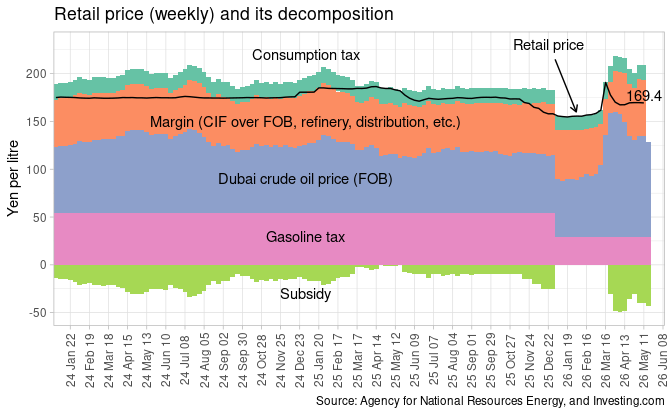
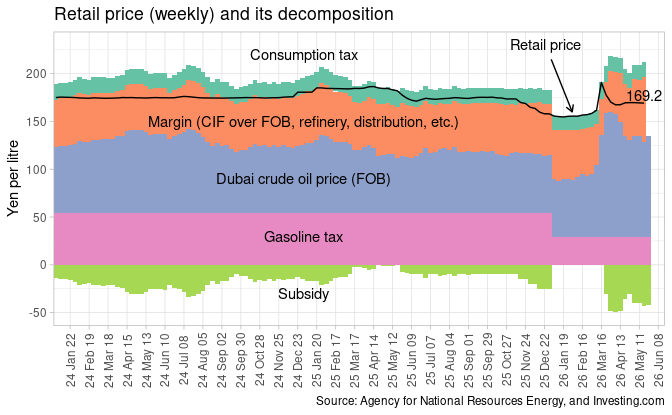
update on May 20, 2026

diff --git a/README.md b/README.md
@@ -25,7 +25,7 @@ library(tidyquant)
 theme_set(theme_light())
 ```
 
-Updated: 2026-05-13
+Updated: 2026-05-20
 
 ## Weekly update
 
@@ -38,7 +38,7 @@ every Wednesday, usually. Sometimes, due to holidays, target dates and
 publishing dates are delayed.
 
 ``` r
-retail <- read_excel("data/260513s5.xlsx", 
+retail <- read_excel("data/260520s5.xlsx", 
                      sheet = "レギュラー",
                      col_types = c("text", "date", rep("numeric", 59))) |> 
   select(2:3) |> 
@@ -301,7 +301,8 @@ meti_dubai_weekly <- tribble(
 "2026-04-14", 101.5, # 04-20(Mon) 101.65 * 158.82 / 159
 "2026-04-21", 106.3, # 04-27(Mon) 105.97 * 159.43 / 159
 "2026-04-28", 105.7, # 05-04(Mon) 106.93 * 157.23 / 159
-"2026-05-05", 99.5 # 05-11(Mon) 100.70 * 157.18 / 159
+"2026-05-05", 99.5, # 05-11(Mon) 100.70 * 157.18 / 159
+"2026-05-12", 105.7 # 05-18(Mon) 105.78 * 158.84 / 159
 ) |> 
   fill(price, .direction = "down")
 ```
@@ -544,7 +545,8 @@ meti_subsidy <- tribble(
 "2026-04-14", 30.9,
 "2026-04-21", 39.7,
 "2026-04-28", NA,
-"2026-05-05", 42.6
+"2026-05-05", 42.6,
+"2026-05-12", 41.8
 ) |> 
   fill(subsidy, .direction = "down")
 ```